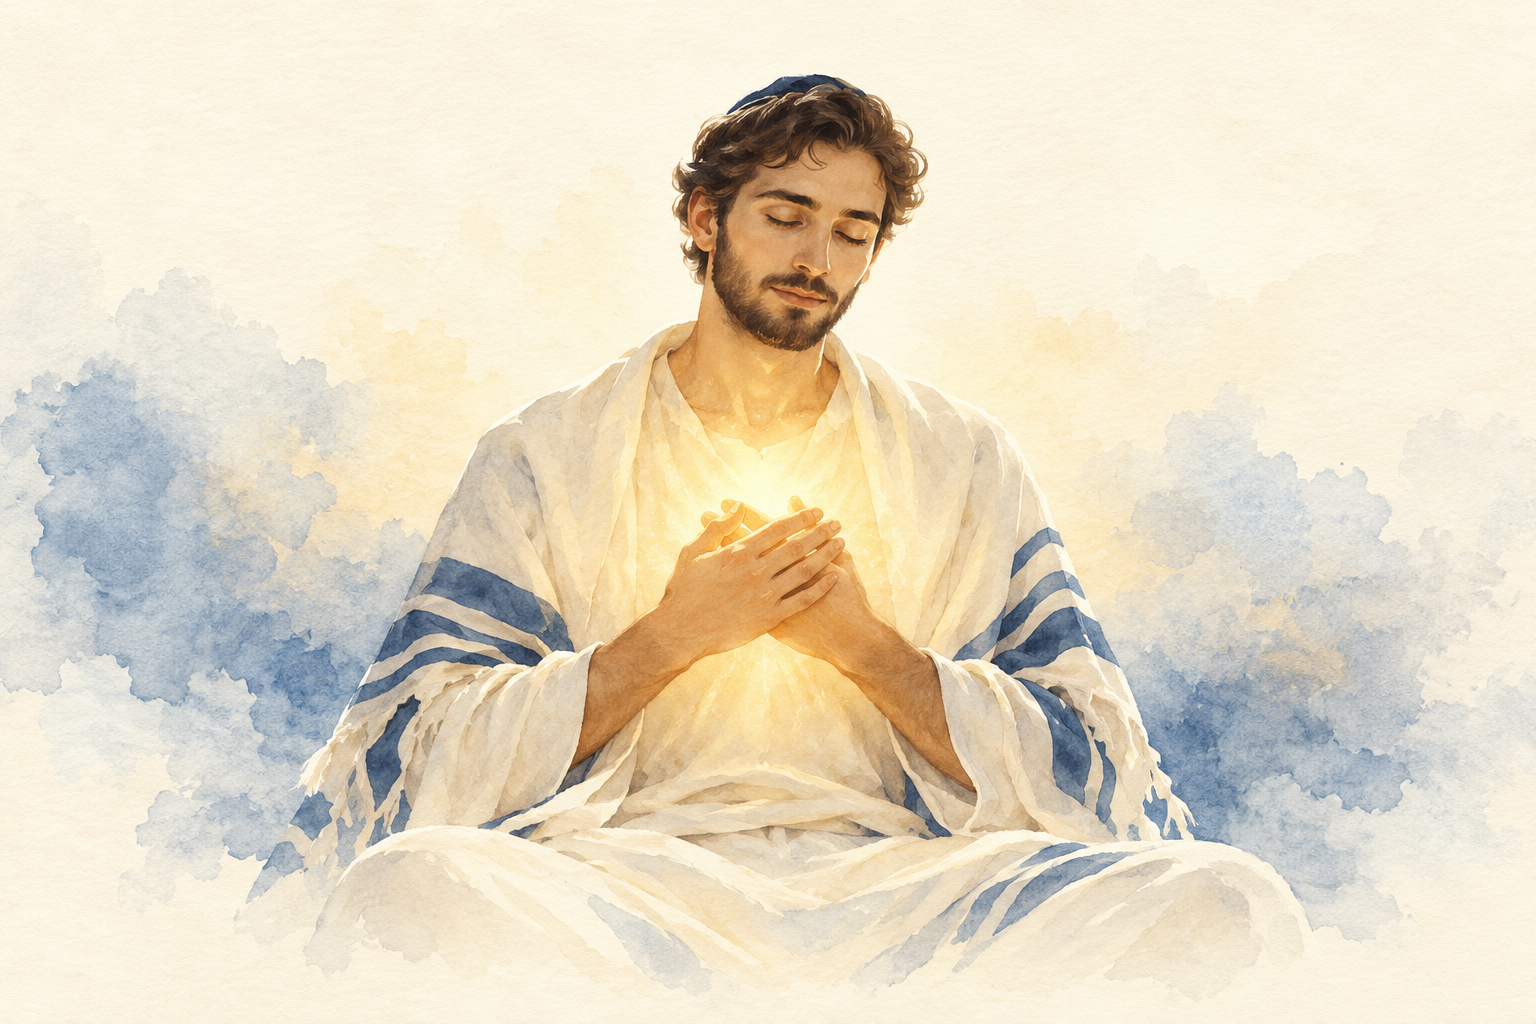
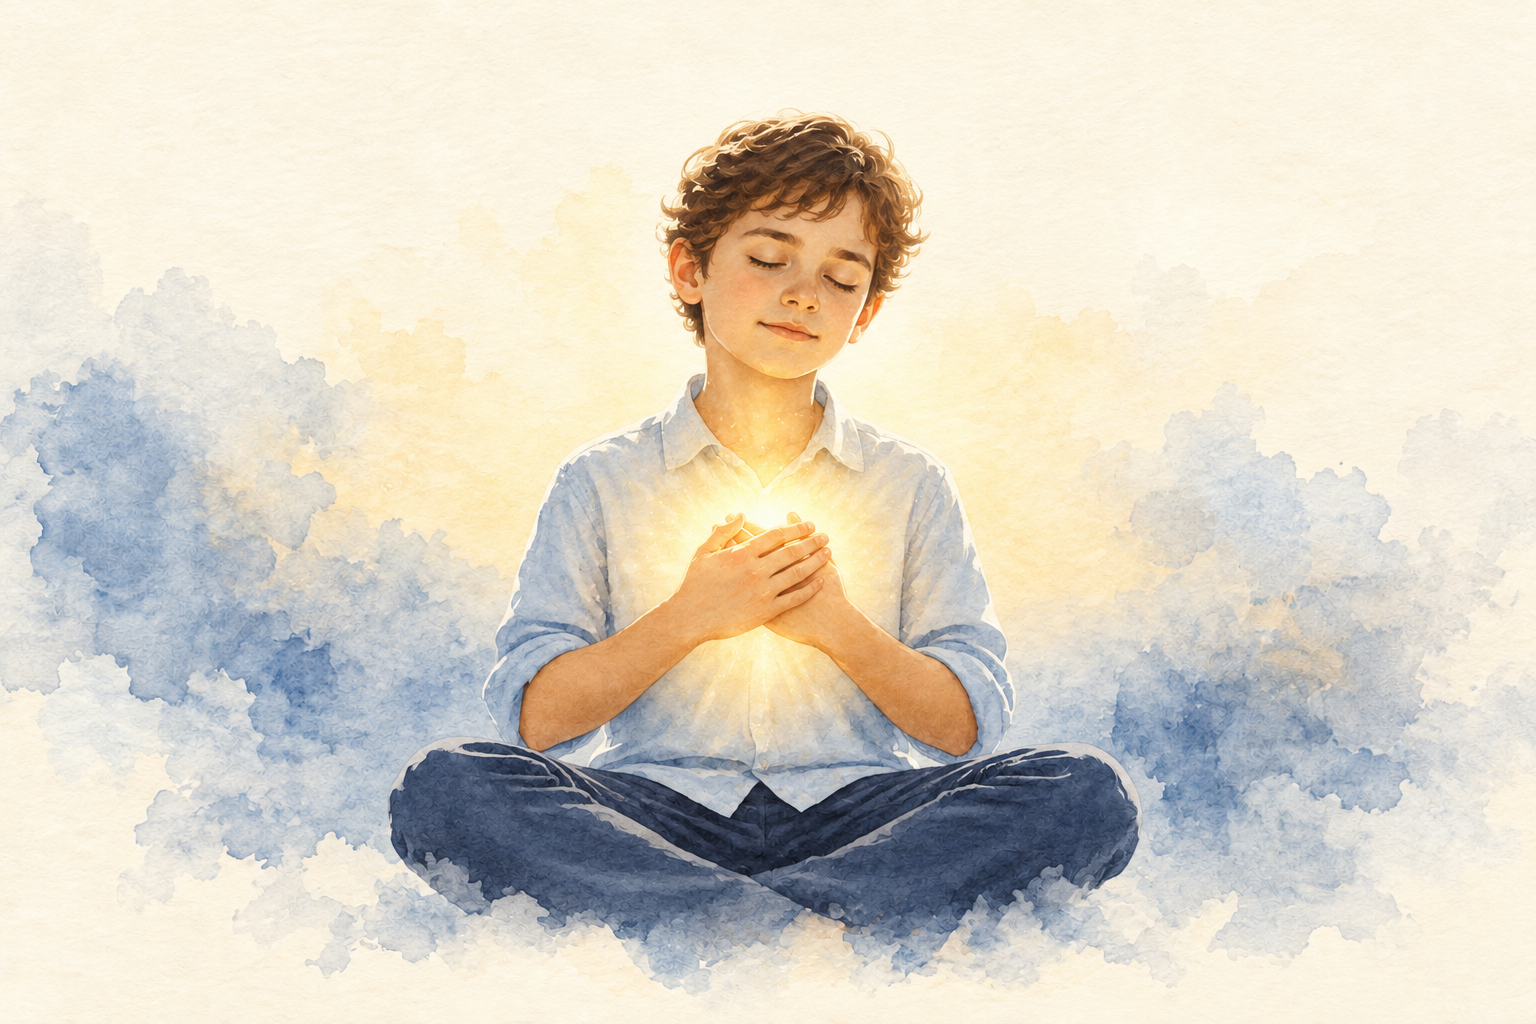
Show a boy in ordinary clothes in the soul illustration

Changed region(s): [[0.1562, 0.0625, 0.8438, 0.9688]]

diff --git a/index.html b/index.html
@@ -29,7 +29,7 @@
 <section class="neshama" aria-labelledby="neshama-title">
 <h2 id="neshama-title">Elohai Neshama</h2>
 <p>Thanking God for our Soul</p>
-<img src="assets/elohai-neshama.png" alt="A peaceful person with warm golden light glowing within their chest, symbolizing their soul." loading="lazy">
+<img src="assets/elohai-neshama.png" alt="A peaceful boy in ordinary clothes with warm golden light glowing within his chest, symbolizing his soul." loading="lazy">
 </section>
 <section id="studio" hidden><h2>Make this blessing yours</h2><p class="note">Record your blessing, listen back, and approve it when it feels right.</p><p id="recording-state" role="status"></p><button class="control" id="record">● Start recording</button><button class="control secondary" id="stop" disabled>Stop recording</button><button class="control" id="listen" hidden>▶ Play my recording</button><audio id="review" controls hidden preload="auto"></audio><div id="approval" hidden><button class="control" id="approve">It’s good — use this recording</button><button class="control secondary" id="retry">Record again</button></div><p class="note" id="studio-note"></p></section>
 
